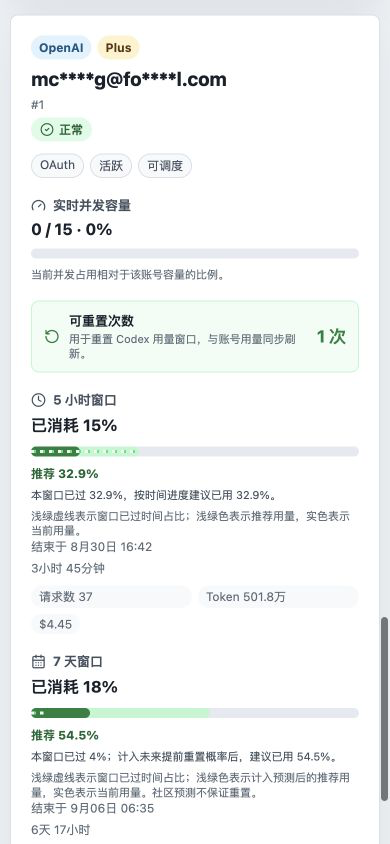
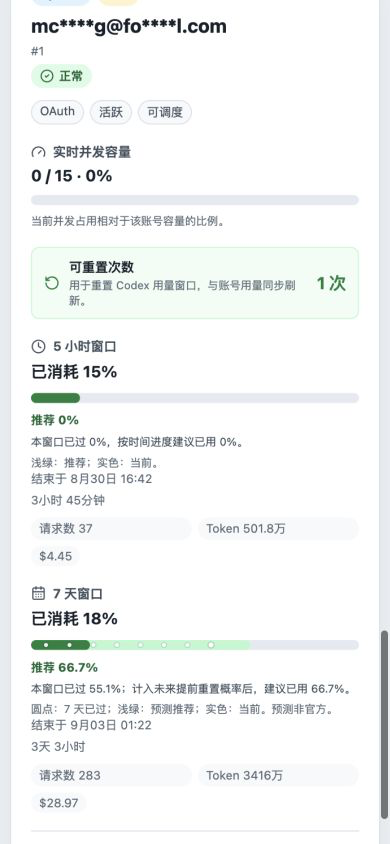
docs: update circular marker previews

diff --git a/README.md b/README.md
@@ -19,7 +19,7 @@ Public read-only Next.js panel for selected sub2api upstream account usage windo
 - Read-only public dashboard for selected upstream accounts
 - 5 hours and 7 days usage windows with reset time and countdown
 - Time-progress recommendations, continuously adjusted by cross-checked early-reset probabilities
-- A single usage track overlays current usage (solid), recommended usage (pale green), and elapsed window share (green dashes)
+- The 7-day usage track overlays current usage (solid), recommended usage (pale green), and elapsed window share (inset circular dots)
 - Runtime filtering of visible 5-hour and 7-day usage windows
 - 5 hours and 7 days request counts and token usage, both per account and in dashboard summary
 - OpenAI subscription plan badges next to each account platform
@@ -69,7 +69,7 @@ Forecast requests are made only by this panel server. No sub2api URL, admin key,
 
 The base recommendation is simply the elapsed share of the current window: `elapsed time / full window duration`. A valid forecast raises that target using the expected value of the 24-hour and 48-hour early-reset probabilities. An unscoped global forecast affects only the 7-day window; the 5-hour window requires an explicit 5-hour signal. Plan-scoped signals are applied only to matching account plans. Stale, inconsistent, late, or mismatched forecasts leave the time-based recommendation unchanged.
 
-Each usage window keeps all three readings on one track: solid color shows current usage, pale green shows the recommendation, and short green dashes mark the elapsed share of the window. The current-usage layer remains green, amber, or red according to consumption level and covers the layers beneath it where they overlap.
+The 7-day window keeps all three readings on one track: solid color shows current usage, pale green shows the recommendation, and inset circular dots mark the elapsed share of the window. The 5-hour track omits the dots to keep short-window scanning compact. The current-usage layer remains green, amber, or red according to consumption level and covers the recommendation beneath it.
 
 ## Local Development
 

diff --git a/README.zh-CN.md b/README.zh-CN.md
@@ -19,7 +19,7 @@
 - 公开只读面板，无需登录即可查看选定上游账号状态
 - 展示 `5 小时` 与 `7 天` 用量窗口、窗口结束时间和倒计时
 - 按窗口已过时间给出建议进度，并使用交叉验证后的提前重置概率连续调整
-- 在同一条用量进度条内叠加显示当前用量（实色）、推荐用量（浅绿色）和窗口已过占比（绿色虚线）
+- 在 `7 天` 用量进度条内叠加显示当前用量（实色）、推荐用量（浅绿色）和窗口已过占比（内缩圆点）
 - 展示 `5 小时` 与 `7 天` 两个窗口内的请求数和 Token 消耗，包含账号级和顶部汇总
 - 在账号平台右侧显示 OpenAI 套餐类型
 - 每个账号的实时并发容量同步
@@ -69,7 +69,7 @@ admin key 只在 Next.js 服务端路由中读取，不会返回给浏览器。
 
 基础建议采用简单的“已过时间 / 完整窗口时长”。存在可靠预测时，再按未来 24 小时和 48 小时提前重置概率的期望值提高建议进度。未注明窗口的全局预测只影响 7 天窗口；5 小时窗口必须有明确的 5 小时信号。限制套餐的信号只作用于匹配套餐。预测过期、数据冲突、时间晚于正常重置或套餐不匹配时，建议值保持为基础时间进度。
 
-每个用量窗口只使用一条进度条：实色表示当前用量，浅绿色表示推荐用量，短绿色虚线表示窗口已过时间占比。当前用量会根据消耗程度显示为绿、橙或红色，并在重叠区域覆盖下方两层。
+`7 天` 窗口只使用一条进度条：实色表示当前用量，浅绿色表示推荐用量，内缩圆点表示窗口已过时间占比。`5 小时` 进度条不显示圆点，以降低短窗口信息的视觉密度。当前用量会根据消耗程度显示为绿、橙或红色，并覆盖下方的推荐用量层。
 
 ## 本地开发
 
